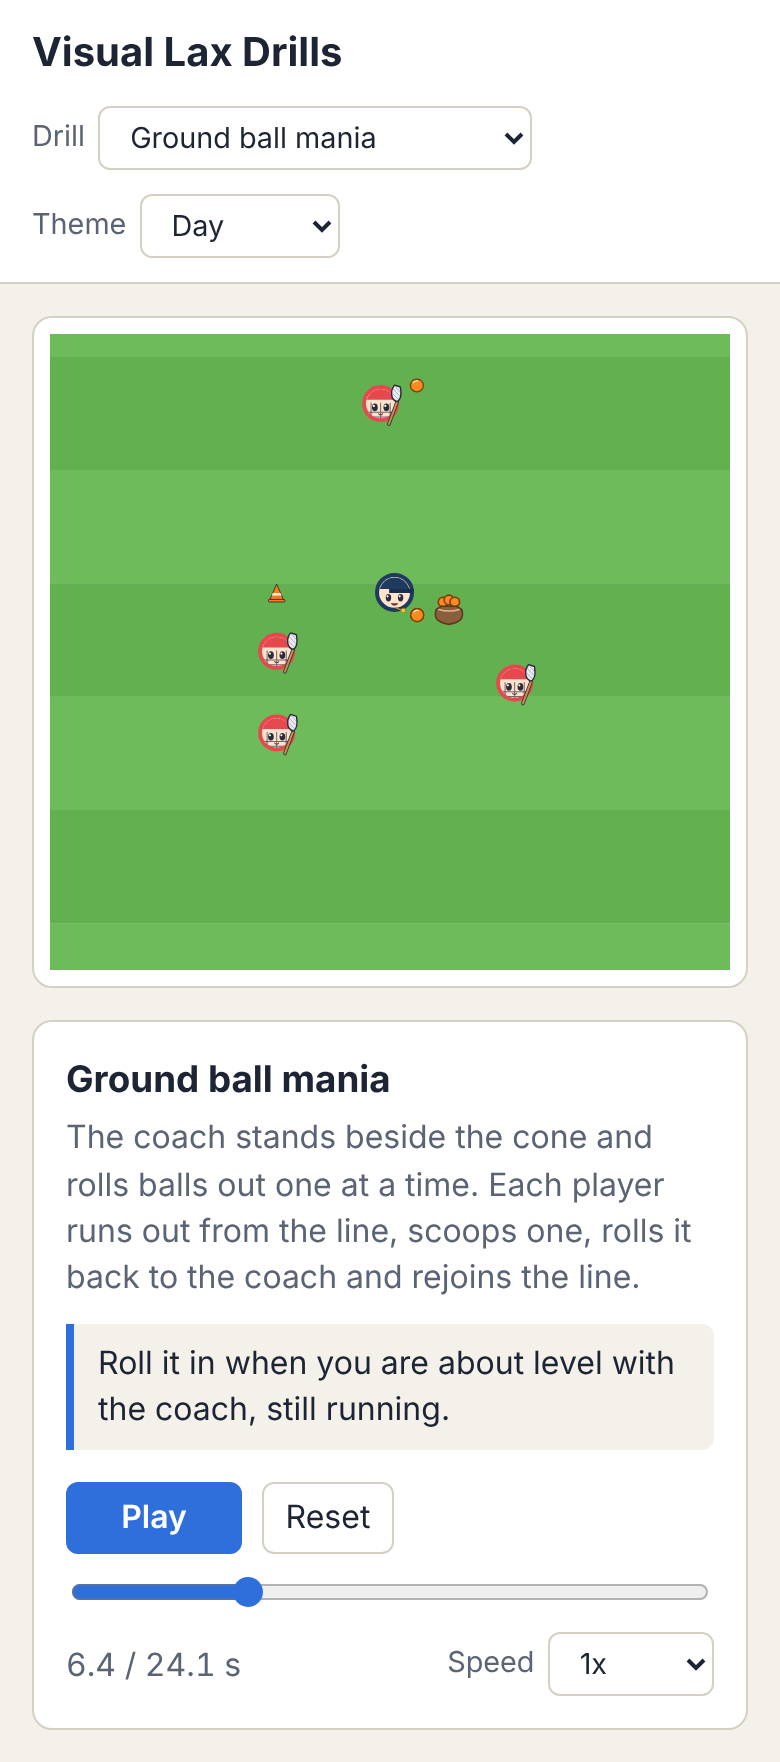
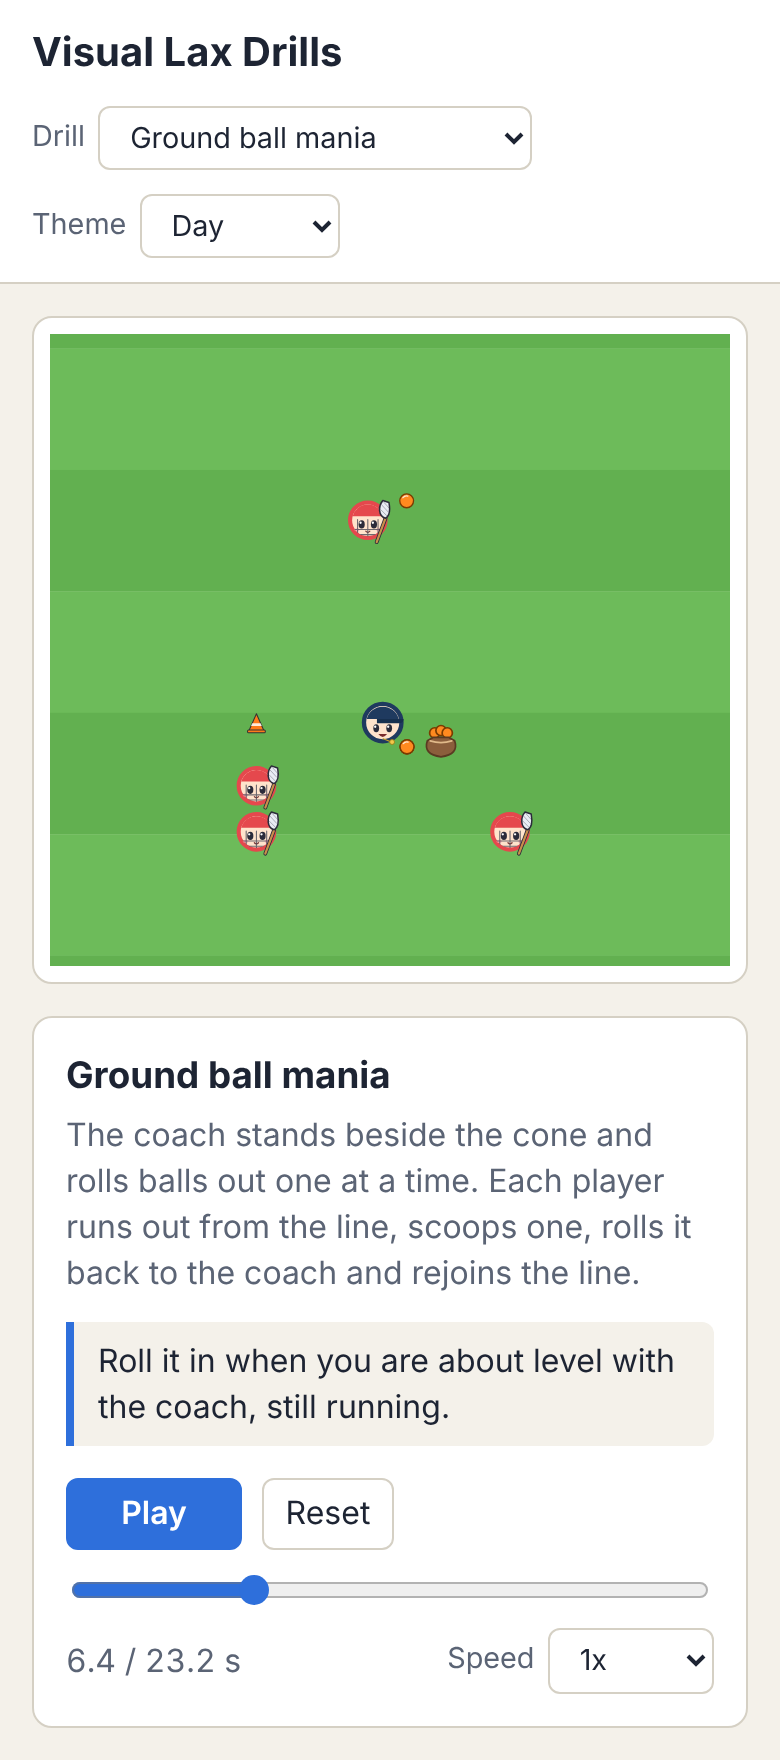
fix: tighten the Ground ball mania line and lower the view
The line was spaced 3.6 yards; it is now 1.9, so the players stand
shoulder to shoulder (icons are 1.8) with no gap. The view moved so the
cone is 10 yards from the bottom of the screen, leaving room for four
players behind it and a margin underneath, and more room above. The view
is 28 by 26 yards (about 2.4x).

Players now run straight down the lane to the row where they join the line
(worked out in two passes, since it depends on who is already in line)
and then west into it, so nobody slows or waits at a waypoint. Slowest part
of any run is 4.4 yards a second, fastest 6.5; six balls in about 23
seconds. Test limits follow the smaller icons (1.8 between players, 2.0 from
the coach, 1.6 from the bag) and the line positions. Screenshots remade.

AIA PAI SeCeNc Hin R Claude Code Web Sonnet 5.5 Medium v1.0

Vibe-Coder: Vibe-Coder 1.z3r0 <243014891+vibecoder-1z3r0@users.noreply.github.com>

diff --git a/src/js/drills.js b/src/js/drills.js
@@ -124,19 +124,19 @@ export const DRILLS = [
   {
     id: "ground-ball-mania",
     title: "Ground ball mania",
-    view: { x: 20, y: 24, w: 30, h: 28 },
+    view: { x: 21.5, y: 19.4, w: 28, h: 26 },
     goal: false,
     midfieldLabel: false,
     summary: "The coach stands beside the cone and rolls balls out one at a time. Each player runs out from the line, scoops one, rolls it back to the coach and rejoins the line.",
-    duration: 24.1,
+    duration: 23.2,
     actors: [
       { id: "coach", kind: "coach", team: "none", keys: [k(0, 35.2, 35.4)] },
       { id: "bag", kind: "ballbag", team: "none", keys: [k(0, 37.6, 36.2)] },
       { id: "cone", kind: "cone", team: "none", color: "orange", keys: [k(0, 30, 35.4)] },
-      { id: "p1", kind: "player", team: "a", keys: [k(0, 30, 38), k(1.0, 30, 38), k(1.8, 30, 33.5), k(3.4, 33.0, 26.7), k(4.8, 40.5, 30.7), k(5.7, 40.5, 35.9), k(6.5, 40.5, 39.9), k(7.9, 40.5, 41.6), k(9.7, 30, 41.6), k(9.8, 30, 41.6), k(10.5, 30, 38), k(12.2, 30, 38), k(13.0, 30, 33.5), k(14.6, 33.0, 26.7), k(16.0, 40.5, 30.7), k(16.9, 40.5, 35.9), k(17.7, 40.5, 39.9), k(19.1, 40.5, 45.2), k(20.9, 30, 45.2)] },
-      { id: "p2", kind: "player", team: "a", keys: [k(0, 30, 41.6), k(1.4, 30, 41.6), k(2.1, 30, 38), k(3.8, 30, 38), k(4.6, 30, 33.5), k(6.2, 33.6, 26.5), k(7.6, 40.5, 30.5), k(8.5, 40.5, 35.9), k(9.3, 40.5, 39.9), k(10.7, 40.5, 41.6), k(12.5, 30, 41.6), k(12.6, 30, 41.6), k(13.3, 30, 38), k(15.0, 30, 38), k(15.8, 30, 33.5), k(17.4, 33.6, 26.5), k(18.8, 40.5, 30.5), k(19.7, 40.5, 35.9), k(20.5, 40.5, 39.9), k(21.9, 40.5, 48.8), k(23.7, 30, 48.8)] },
-      { id: "p3", kind: "player", team: "a", keys: [k(0, 30, 45.2), k(1.4, 30, 45.2), k(2.1, 30, 41.6), k(4.2, 30, 41.6), k(4.9, 30, 38), k(6.6, 30, 38), k(7.4, 30, 33.5), k(9.0, 32.4, 26.8), k(10.4, 40.5, 30.8), k(11.3, 40.5, 35.9), k(12.1, 40.5, 39.9), k(13.5, 40.5, 41.6), k(15.3, 30, 41.6), k(15.4, 30, 41.6), k(16.1, 30, 38)] },
-      { id: "p4", kind: "player", team: "a", keys: [k(0, 30, 48.8), k(1.4, 30, 48.8), k(2.1, 30, 45.2), k(4.2, 30, 45.2), k(4.9, 30, 41.6), k(7.0, 30, 41.6), k(7.7, 30, 38), k(9.4, 30, 38), k(10.2, 30, 33.5), k(11.8, 33.3, 26.6), k(13.2, 40.5, 30.6), k(14.1, 40.5, 35.9), k(14.9, 40.5, 39.9), k(16.3, 40.5, 41.6), k(18.1, 30, 41.6)] },
+      { id: "p1", kind: "player", team: "a", keys: [k(0, 30, 38), k(1.0, 30, 38), k(1.8, 30, 33.5), k(3.4, 33.0, 26.7), k(4.8, 40.5, 30.7), k(5.7, 40.5, 35.9), k(6.39, 40.5, 39.9), k(8.19, 30, 39.9), k(9.8, 30, 39.9), k(10.5, 30, 38), k(12.2, 30, 38), k(13.0, 30, 33.5), k(14.6, 33.0, 26.7), k(16.0, 40.5, 30.7), k(16.9, 40.5, 35.9), k(17.92, 40.5, 41.8), k(19.72, 30, 41.8)] },
+      { id: "p2", kind: "player", team: "a", keys: [k(0, 30, 39.9), k(1.4, 30, 39.9), k(2.1, 30, 38), k(3.8, 30, 38), k(4.6, 30, 33.5), k(6.2, 33.6, 26.5), k(7.6, 40.5, 30.5), k(8.5, 40.5, 35.9), k(9.19, 40.5, 39.9), k(10.99, 30, 39.9), k(12.6, 30, 39.9), k(13.3, 30, 38), k(15.0, 30, 38), k(15.8, 30, 33.5), k(17.4, 33.6, 26.5), k(18.8, 40.5, 30.5), k(19.7, 40.5, 35.9), k(21.04, 40.5, 43.7), k(22.84, 30, 43.7)] },
+      { id: "p3", kind: "player", team: "a", keys: [k(0, 30, 41.8), k(1.4, 30, 41.8), k(2.1, 30, 39.9), k(4.2, 30, 39.9), k(4.9, 30, 38), k(6.6, 30, 38), k(7.4, 30, 33.5), k(9.0, 32.4, 26.8), k(10.4, 40.5, 30.8), k(11.3, 40.5, 35.9), k(11.99, 40.5, 39.9), k(13.79, 30, 39.9), k(15.4, 30, 39.9), k(16.1, 30, 38)] },
+      { id: "p4", kind: "player", team: "a", keys: [k(0, 30, 43.7), k(1.4, 30, 43.7), k(2.1, 30, 41.8), k(4.2, 30, 41.8), k(4.9, 30, 39.9), k(7.0, 30, 39.9), k(7.7, 30, 38), k(9.4, 30, 38), k(10.2, 30, 33.5), k(11.8, 33.3, 26.6), k(13.2, 40.5, 30.6), k(14.1, 40.5, 35.9), k(14.79, 40.5, 39.9), k(16.59, 30, 39.9)] },
       { id: "ball", kind: "ball", team: "none", keys: [k(0, 36.2, 36.4), k(0.9, 36.2, 36.4), k(2.1, 34.6, 25.9), k(3.4, 34.6, 25.9), k(4.8, 42.1, 29.9), k(5.7, 42.1, 35.1), k(6.2, 36.2, 36.4), k(12.1, 36.2, 36.4), k(13.3, 34.6, 25.9), k(14.6, 34.6, 25.9), k(16.0, 42.1, 29.9), k(16.9, 42.1, 35.1), k(17.4, 36.2, 36.4)] },
       { id: "ball2", kind: "ball", team: "none", keys: [k(0, 36.2, 36.4), k(3.7, 36.2, 36.4), k(4.9, 35.2, 25.7), k(6.2, 35.2, 25.7), k(7.6, 42.1, 29.7), k(8.5, 42.1, 35.1), k(9.0, 36.2, 36.4), k(14.9, 36.2, 36.4), k(16.1, 35.2, 25.7), k(17.4, 35.2, 25.7), k(18.8, 42.1, 29.7), k(19.7, 42.1, 35.1), k(20.2, 36.2, 36.4)] },
       { id: "ball3", kind: "ball", team: "none", keys: [k(0, 36.2, 36.4), k(6.5, 36.2, 36.4), k(7.7, 34.0, 26.0), k(9.0, 34.0, 26.0), k(10.4, 42.1, 30.0), k(11.3, 42.1, 35.1), k(11.8, 36.2, 36.4)] },
@@ -152,7 +152,7 @@ export const DRILLS = [
       { t: 5.6, text: "Roll it in when you are about level with the coach, still running." },
       { t: 6.8, text: "Keep going, down and around to the back of the line." },
       { t: 13, text: "Around again, everyone circling the same way. Field as many ground balls as you can." },
-      { t: 22.5, text: "Six ground balls in about 24 seconds. Beat that next round." },
+      { t: 21.5, text: "Six ground balls in about 23 seconds. Beat that next round." },
     ],
   },
 ];

diff --git a/tests/test_engine.py b/tests/test_engine.py
@@ -131,9 +131,9 @@ def test_ground_ball_mania_nobody_collides(page):
         pos = {i: at(i, t) for i in kids}
         for i, a in enumerate(kids):
             for b in kids[i + 1 :]:
-                assert dist(pos[a], pos[b]) >= 3.2, (t, a, b)
-            assert dist(pos[a], at("coach", t)) >= 3.2, (t, a, "coach")
-            assert dist(pos[a], at("bag", t)) >= 2.7, (t, a, "bag")
+                assert dist(pos[a], pos[b]) >= 1.8, (t, a, b)
+            assert dist(pos[a], at("coach", t)) >= 2.0, (t, a, "coach")
+            assert dist(pos[a], at("bag", t)) >= 1.6, (t, a, "bag")
 
 
 def test_ground_ball_mania_rolled_balls_never_pass_close_to_a_player(page):
@@ -194,7 +194,7 @@ def test_ground_ball_mania_players_keep_moving_and_stay_believable(page):
         """() => {
       const drill = LAX.DRILLS.find((d) => d.id === 'ground-ball-mania');
       const kids = drill.actors.filter((a) => a.id.startsWith('p'));
-      const slots = [38, 41.6, 45.2, 48.8].map((y) => ({ x: 30, y }));
+      const slots = [38, 39.9, 41.8, 43.7].map((y) => ({ x: 30, y }));
       const inLine = (p) => slots.some((s) => Math.hypot(p.x - s.x, p.y - s.y) < 0.3);
       const dt = 0.05;
       let slowest = Infinity, fastest = 0, slowAt = null;
